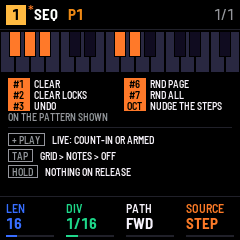
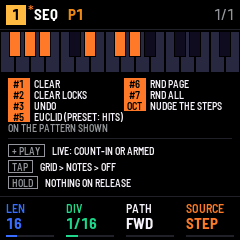
EUCLID: REC held, black key 5 spreads hits evenly over a STEP pattern; PRESET, REC still held, sets how many

Changed region(s): [[0.0292, 0.4375, 0.9625, 0.7875], [0.35, 0.1167, 0.4083, 0.2333]]

diff --git a/app/ui.c b/app/ui.c
@@ -173,7 +173,7 @@ typedef struct { q_step st; uint8_t nlocks; q_lock lk[16]; } q_clip;   /* a step
 
 /* what is on the screen, part by part: a part is drawn again when its view changes */
 typedef struct {
-    struct { int8_t track, domain, page, n, msg, pat, playing, scene, pad, ltrig, itype, punch, badge, bnum, model, dirty, trans; uint8_t bpm; } head;   /* badge: REC's
+    struct { int8_t track, domain, page, n, msg, pat, playing, scene, pad, ltrig, itype, punch, badge, bnum, model, dirty, trans; uint8_t bpm, hits, len; } head;   /* badge: REC's
                                                                                    state, 1 GRID .. 4 ARM (0 none or ARM's blink off); bnum: NOTES' step */   /* pat: P1..P8 asked; playing: the one playing when it differs, else 0;
                                                                                    pad: a KIT's in EDIT 1..16, else 0;
                                                                                    ltrig: LFO's FREE 1 / TRIG 2, else 0; itype: the insert's, in the page name */
@@ -233,6 +233,9 @@ static struct {
                                                   written as it plays its next pass, 0 none */
     uint32_t tap_ms[4], tap_until;             /* TAP TEMPO: the last taps' times (ntap of them); its message until tap_until */
     int transpose;                             /* GLO held, a key: the sequencer's live transposition, in KEYS' unit */
+    int euclid, euclid_rot;                    /* REC held, black key 5: EUCLID's hits while PRESET may change them (REC
+                                                  still held, UNDO's copy the pattern before), 0 none; its rotation */
+    uint32_t euclid_until;                     /* its message shown until then */
     uint32_t trans_until;                      /* its message shown until then */
     int ntap;
     uint32_t down_ms[NB], used;                /* when each button went down; used: bit b, a key or button came while b was held */
@@ -1171,6 +1174,7 @@ static void swap_bytes(uint8_t *a, uint8_t *b, uint32_t n)
 static void undo_keep(int kind)
 {
     uint32_t i;
+    ui.euclid = 0;                      /* (EUCLID draws again from this copy: another action ends it) */
     ui.undo = kind, ui.undo_track = ui.track, ui.undo_pat = ui.p->pattern[ui.track], ui.undone = 0;
     if (kind == UNDO_PAT) {
         __builtin_memcpy(chunk_buf, pat(), sizeof(q_pattern));
@@ -1916,6 +1920,45 @@ static void dice_steps(int from, int to)
     }
 }
 
+/* EUCLID: steps 1..LEN on at ui.euclid places spread evenly (Bresenham's line, Bjorklund's rhythm turned), from
+   ui.euclid_rot; drawn from the pattern before (UNDO's copy). A step on that was on keeps its notes, one that was not
+   takes the tonic (a KIT: pad 1); one off keeps its notes behind the flag */
+static void euclid_draw(void)
+{
+    q_pattern *t = pat();
+    const q_pattern *o = (const q_pattern *)chunk_buf;
+    int n = t->len, i, tonic = ui.p->tonic;
+    for (i = 0; i < n; i++) {
+        q_step v = o->steps[i], *s = &t->steps[i];
+        int on = (i + ui.euclid_rot) % n * ui.euclid % n < ui.euclid;
+        if (on && !(v.flags & SF_ON)) {
+            step_default(&v);
+            v.note[0] = (uint8_t)(kit() ? KIT_NOTE : 60 + tonic - (tonic > 6 ? 12 : 0));
+        }
+        s->flags &= (uint8_t)~SF_ON;    /* the flag last: the render never reads half a step */
+        __asm__ volatile("" ::: "memory");
+        v.flags &= (uint8_t)~SF_ON;
+        *s = v;
+        if (on)
+            step_on(s);
+    }
+    ui.dirty = 1;
+    ui.euclid_until = plat_ms() + MSG_MS;
+}
+
+/* REC held, black key 5 on a STEP pattern: EUCLID, a quarter to a half of LEN as hits, a rotation drawn */
+static void euclid_key(void)
+{
+    int n = pat()->len;
+    ui.rng ^= plat_ms() | 1u;
+    if (!ui.rng)
+        ui.rng = 1;
+    undo_keep(UNDO_PAT);
+    ui.euclid = (n + 3) / 4 + (int)dice_rand((uint32_t)(n / 2 - (n + 3) / 4 + 1 > 0 ? n / 2 - (n + 3) / 4 + 1 : 1));
+    ui.euclid_rot = (int)dice_rand((uint32_t)n);
+    euclid_draw();
+}
+
 /* every page of the domain shown, then in SEQ the source's content */
 static void dice_all(void)
 {
@@ -2100,6 +2143,11 @@ static void key_down(int k)
         }
         if (k == BLACK[2]) {            /* UNDO: armed too */
             undo_swap();
+            return;
+        }
+        if (k == BLACK[4]) {            /* EUCLID: as RANDOM's, on a STEP pattern */
+            if (dice_on(5) && t->src == SRC_STEP)
+                euclid_key();
             return;
         }
         if (ui.rec == R_ARM)            /* (armed: nothing, the first note comes once REC is let go) */
@@ -2414,8 +2462,10 @@ void ui_input(void)
         }
     if ((ui.btn & ~btn) >> B_SAVE & 1u)
         save_release();
-    if ((ui.btn & ~btn) >> B_REC & 1u)
+    if ((ui.btn & ~btn) >> B_REC & 1u) {
         rec_release();
+        ui.euclid = 0;
+    }
     if (ui.domain != D_SEQ && (ui.rec == R_GRID || ui.rec == R_NOTES) && audio_playing())   /* out of SEQ, GRID is NOTES:
                                                                                                playing, LIVE */
         rec_set(R_LIVE);
@@ -2454,7 +2504,10 @@ void ui_input(void)
             ui.page[d] = ((ui.page[d] + e) % n + n) % n;
     }
     if ((e = plat_enc(EN_PRESET)) != 0) {
-        if (notes_on() && ui.nchord) {   /* keys held: the note tied over the next steps, or untied */
+        if (ui.euclid && ui.btn >> B_REC & 1u) {   /* REC still held after EUCLID: its hits, drawn again */
+            ui.euclid = clamp(ui.euclid + e, 1, pat()->len);
+            euclid_draw();
+        } else if (notes_on() && ui.nchord) {   /* keys held: the note tied over the next steps, or untied */
             q_step *s = &pat()->steps[ui.cursor - 1];
             for (; e; e -= e > 0 ? 1 : -1)
                 s->len = (uint8_t)len_step(s->len, e);
@@ -2644,7 +2697,7 @@ static uint32_t layer_keys(int b)
         return keys;
     case B_REC:
         if (ui.rec != R_LIVE) {         /* CLEAR, CLEAR LOCKS, UNDO, and RANDOM's keys where they act */
-            keys = 1u << BLACK[0] | 1u << BLACK[1] | 1u << BLACK[2];
+            keys = 1u << BLACK[0] | 1u << BLACK[1] | 1u << BLACK[2] | (uint32_t)(dice_on(5) && pat()->src == SRC_STEP) << BLACK[4];
             for (i = 5; i < 8; i++)
                 keys |= (uint32_t)dice_on(i) << BLACK[i];
             return keys;
@@ -3072,7 +3125,10 @@ static void view_now(q_view *v)
     v->head.n = (int8_t)domain_n(ui.domain);
     v->head.msg = plat_ms() < ui.msg_until ? 1 : plat_ms() < ui.locks_until ? 2 : plat_ms() < ui.wipe_until ? 3 :
                   plat_ms() < ui.rnd_until ? 3 + ui.rnd_kind : plat_ms() < ui.tap_until ? 7 :
-                  plat_ms() < ui.copy_until ? 7 + ui.copy_kind : plat_ms() < ui.trans_until ? 7 + COPY_N : 0;
+                  plat_ms() < ui.copy_until ? 7 + ui.copy_kind : plat_ms() < ui.trans_until ? 7 + COPY_N :
+                  plat_ms() < ui.euclid_until ? 8 + COPY_N : 0;
+    v->head.hits = (uint8_t)ui.euclid;
+    v->head.len = (uint8_t)t->len;
     v->head.trans = (int8_t)ui.transpose;
     v->head.bpm = (uint8_t)ui.p->tempo;
     v->head.pat = (int8_t)(ui.p->pattern[ui.track] + 1);
@@ -3308,11 +3364,18 @@ static void draw_head(const q_view *v)
     if (v->head.msg) {
         x = cv_text(x + 10, 7, &FONT_B, v->head.msg == 1 ? "SAVE AT STOP" : v->head.msg == 2 ? "LOCKS FULL" : v->head.msg == 3 ? "AGAIN: ERASE"
                     : v->head.msg == 4 ? "RANDOM PAGE" : v->head.msg == 5 ? "RANDOM ALL" : v->head.msg == 6 ? "RANDOM MODEL"
-                    : v->head.msg == 7 ? "TAP" : v->head.msg == 7 + COPY_N ? "TRANSPOSE" : COPY_NAME[v->head.msg - 8],
+                    : v->head.msg == 7 ? "TAP" : v->head.msg == 7 + COPY_N ? "TRANSPOSE" : v->head.msg == 8 + COPY_N ? "EUCLID"
+                    : COPY_NAME[v->head.msg - 8],
                     KCOL[3]);
         if (v->head.msg == 7) {         /* TAP and the tempo */
             int_text(v->head.bpm, t);
             cv_text(x + 4, 7, &FONT_B, t, KCOL[3]);
+        } else if (v->head.msg == 8 + COPY_N) {   /* its hits / LEN */
+            int_text(v->head.hits, t);
+            x = cv_text(x + 4, 7, &FONT_B, t, KCOL[3]);
+            x = cv_text(x, 7, &FONT_B, "/", KCOL[3]);
+            int_text(v->head.len, t);
+            cv_text(x, 7, &FONT_B, t, KCOL[3]);
         } else if (v->head.msg == 7 + COPY_N) {   /* and its steps, signed */
             t[0] = v->head.trans < 0 ? '-' : '+';
             int_text(v->head.trans < 0 ? -v->head.trans : v->head.trans, t + 1);
@@ -3515,6 +3578,8 @@ static void draw_layer(const q_view *v, int32_t oy)
             tags[n] = "#1", names[n++] = "CLEAR";
             tags[n] = "#2", names[n++] = "CLEAR LOCKS";
             tags[n] = "#3", names[n++] = "UNDO";
+            if (v->scene.lkeys >> BLACK[4] & 1u)
+                tags[n] = "#5", names[n++] = "EUCLID (PRESET: HITS)";
             for (i = 0; i < 3; i++)     /* RANDOM's keys lit (layer_keys) */
                 if (v->scene.lkeys >> BLACK[5 + i] & 1u)
                     tags[n] = RND_TAG[i], names[n++] = RND_NAME[i];
@@ -4341,6 +4406,7 @@ int ui_expect(const char *what, int *got)
     else if (!strcmp(what, "save_at_stop")) *got = ui.save_at_stop;
     else if (!strcmp(what, "msg_wipe")) *got = plat_ms() < ui.wipe_until;
     else if (!strcmp(what, "msg_random")) *got = plat_ms() < ui.rnd_until ? ui.rnd_kind : 0;
+    else if (!strcmp(what, "euclid")) *got = ui.euclid;
     else if (!strcmp(what, "solo")) *got = ui.solo;
     else if (!strcmp(what, "latch")) *got = ui.latch;
     else if (!strcmp(what, "transpose")) *got = ui.transpose;

diff --git a/app/docs/sequencer.md b/app/docs/sequencer.md
@@ -195,7 +195,7 @@ REC (short) disarms and the pattern keeps playing. PLAY stops and disarms.
 
 ## REC held
 
-![REC held: #1 CLEAR, #2 CLEAR LOCKS on the pattern shown, #3 UNDO, #6 RND PAGE, #7 RND ALL, OCT NUDGE THE STEPS, + PLAY for LIVE, TAP for GRID > NOTES > OFF](img/seq-rec-map.png "REC's map")
+![REC held: #1 CLEAR, #2 CLEAR LOCKS on the pattern shown, #3 UNDO, #5 EUCLID, #6 RND PAGE, #7 RND ALL, OCT NUDGE THE STEPS, + PLAY for LIVE, TAP for GRID > NOTES > OFF](img/seq-rec-map.png "REC's map")
 
 | REC held + | Not in LIVE or ARM | In LIVE |
 | --- | --- | --- |
@@ -203,14 +203,23 @@ REC (short) disarms and the pattern keeps playing. PLAY stops and disarms.
 | black key 1 | CLEAR: empties the pattern shown | — |
 | black key 2 | CLEAR LOCKS: removes its p-locks | — |
 | black key 3 | UNDO: the last CLEAR, CLEAR LOCKS, draw or paste put back; again, done again | — |
+| black key 5 | EUCLID on a STEP pattern; then PRESET, REC still held: more or fewer hits | — |
 | keys | — | erase their notes as the pattern crosses them |
 | OCT- | NUDGE: steps 1 to LEN one step left (step 1 goes last) | clears every step crossed |
 | OCT+ | NUDGE: steps 1 to LEN one step right (the last goes first) | — |
 
+EUCLID spreads hits as evenly as it can over steps 1 to LEN, from a place drawn at random: 3 hits in 8 make the
+tresillo, 5 in 16 a bossa-like line. It draws a quarter to a half of LEN; turn PRESET while still holding REC for more
+or fewer, from 1 to LEN (`EUCLID 5/16`). A step that was on stays as written, a new one plays the tonic (a kit: pad
+1), and a step turned off keeps its notes for the next draw. REC held and black key 3 gives the pattern back.
+
+**Inspired by** Godfried Toussaint's [The Euclidean Algorithm Generates Traditional Musical
+Rhythms](http://cgm.cs.mcgill.ca/~godfried/publications/banff.pdf): Bjorklund's even spreading of hits over steps.
+
 NUDGE moves a STEP pattern's steps with their p-locks, `STEPS LEFT` or `STEPS RIGHT`: a hat line onto the offbeat, a
 LIVE take played a step late put back on the beat.
 
-UNDO puts back what the last CLEAR, CLEAR LOCKS, NUDGE, draw (black keys 6–8), paste (SEQ held, black keys 2 and 4),
+UNDO puts back what the last CLEAR, CLEAR LOCKS, NUDGE, EUCLID, draw (black keys 6–8), paste (SEQ held, black keys 2 and 4),
 x2 or PRINT changed: the pattern, the track's sound and pads, or GLO's settings, as they were just before. The header says
 `UNDONE`; press again for `REDONE`, and so on. It keeps one action only, the last, and what you changed by hand since
 that action goes back with it. A SAVE ends it: then the header says `NOTHING TO UNDO`.
